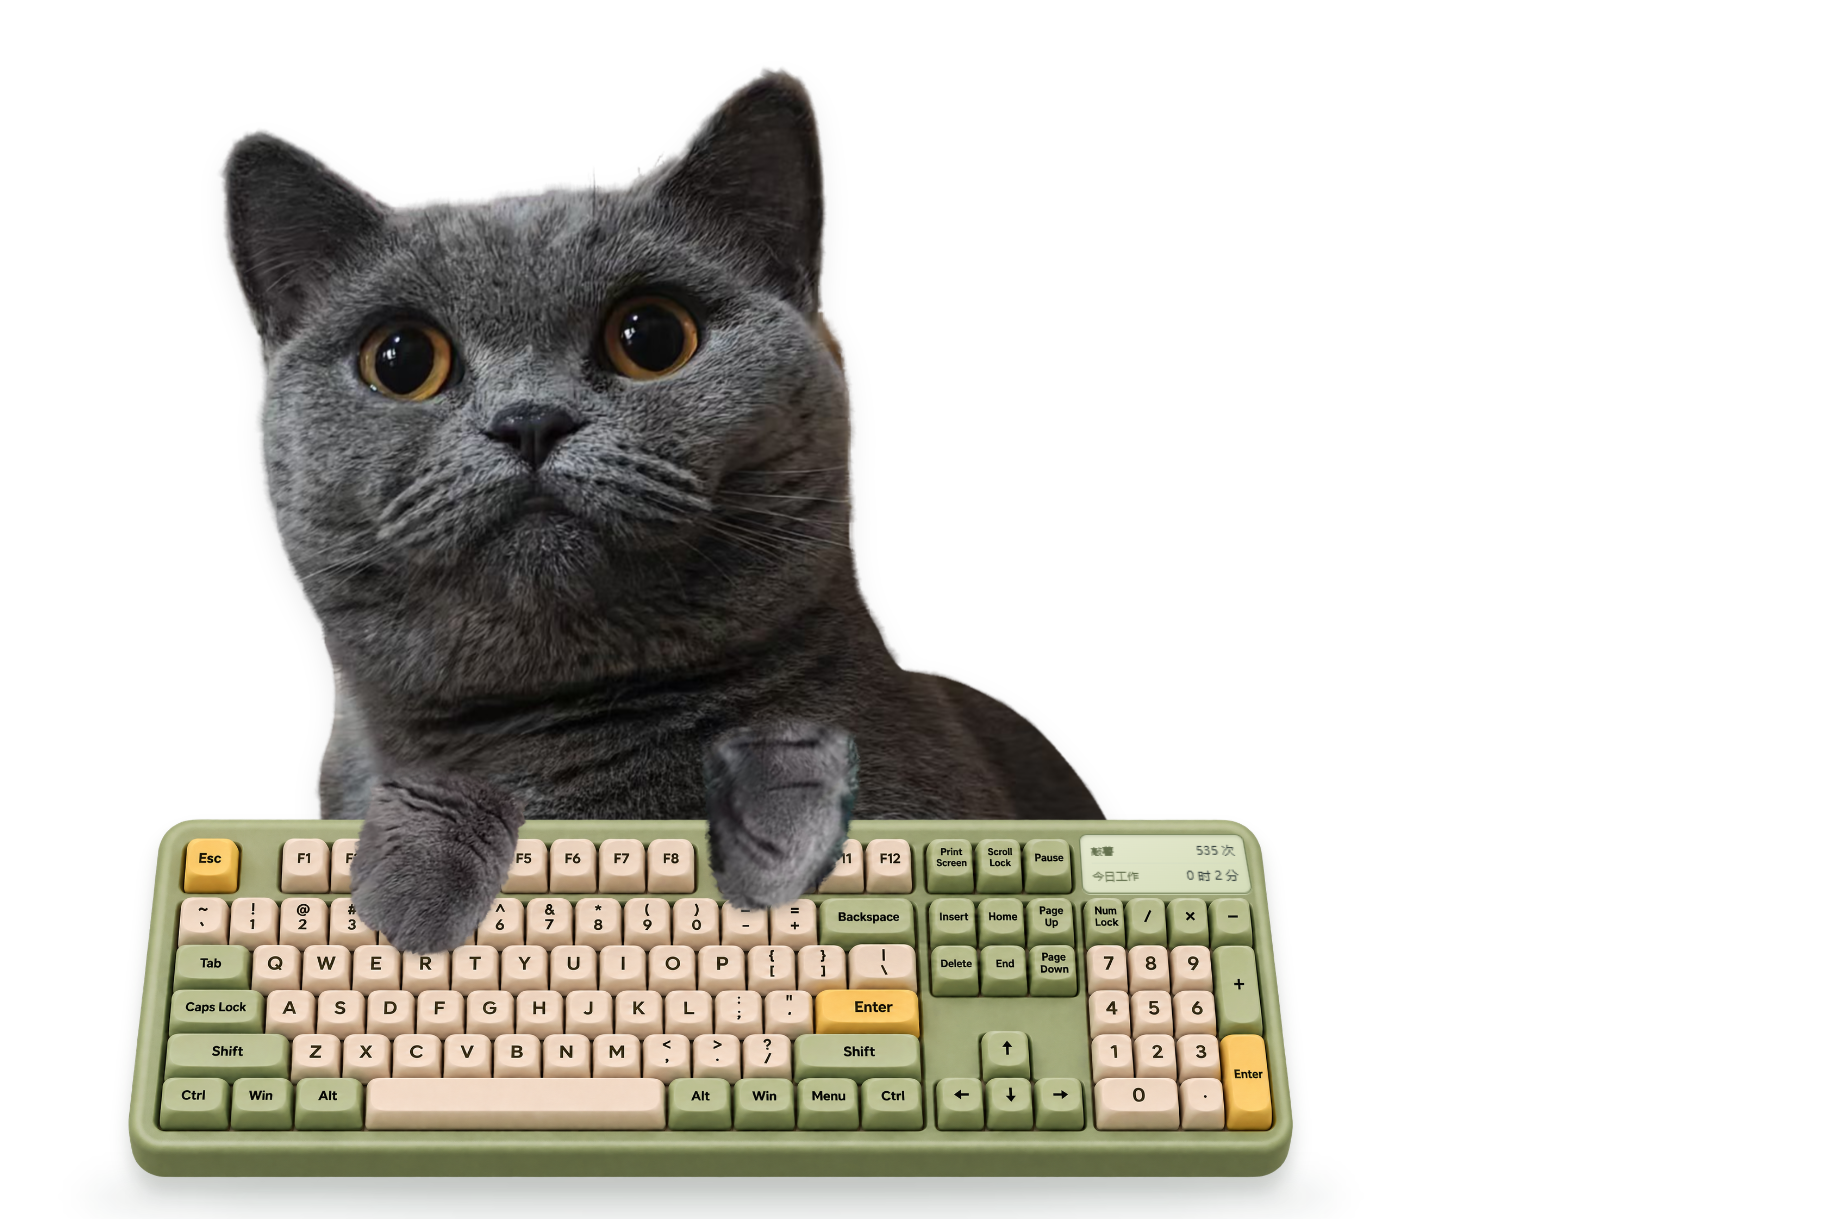
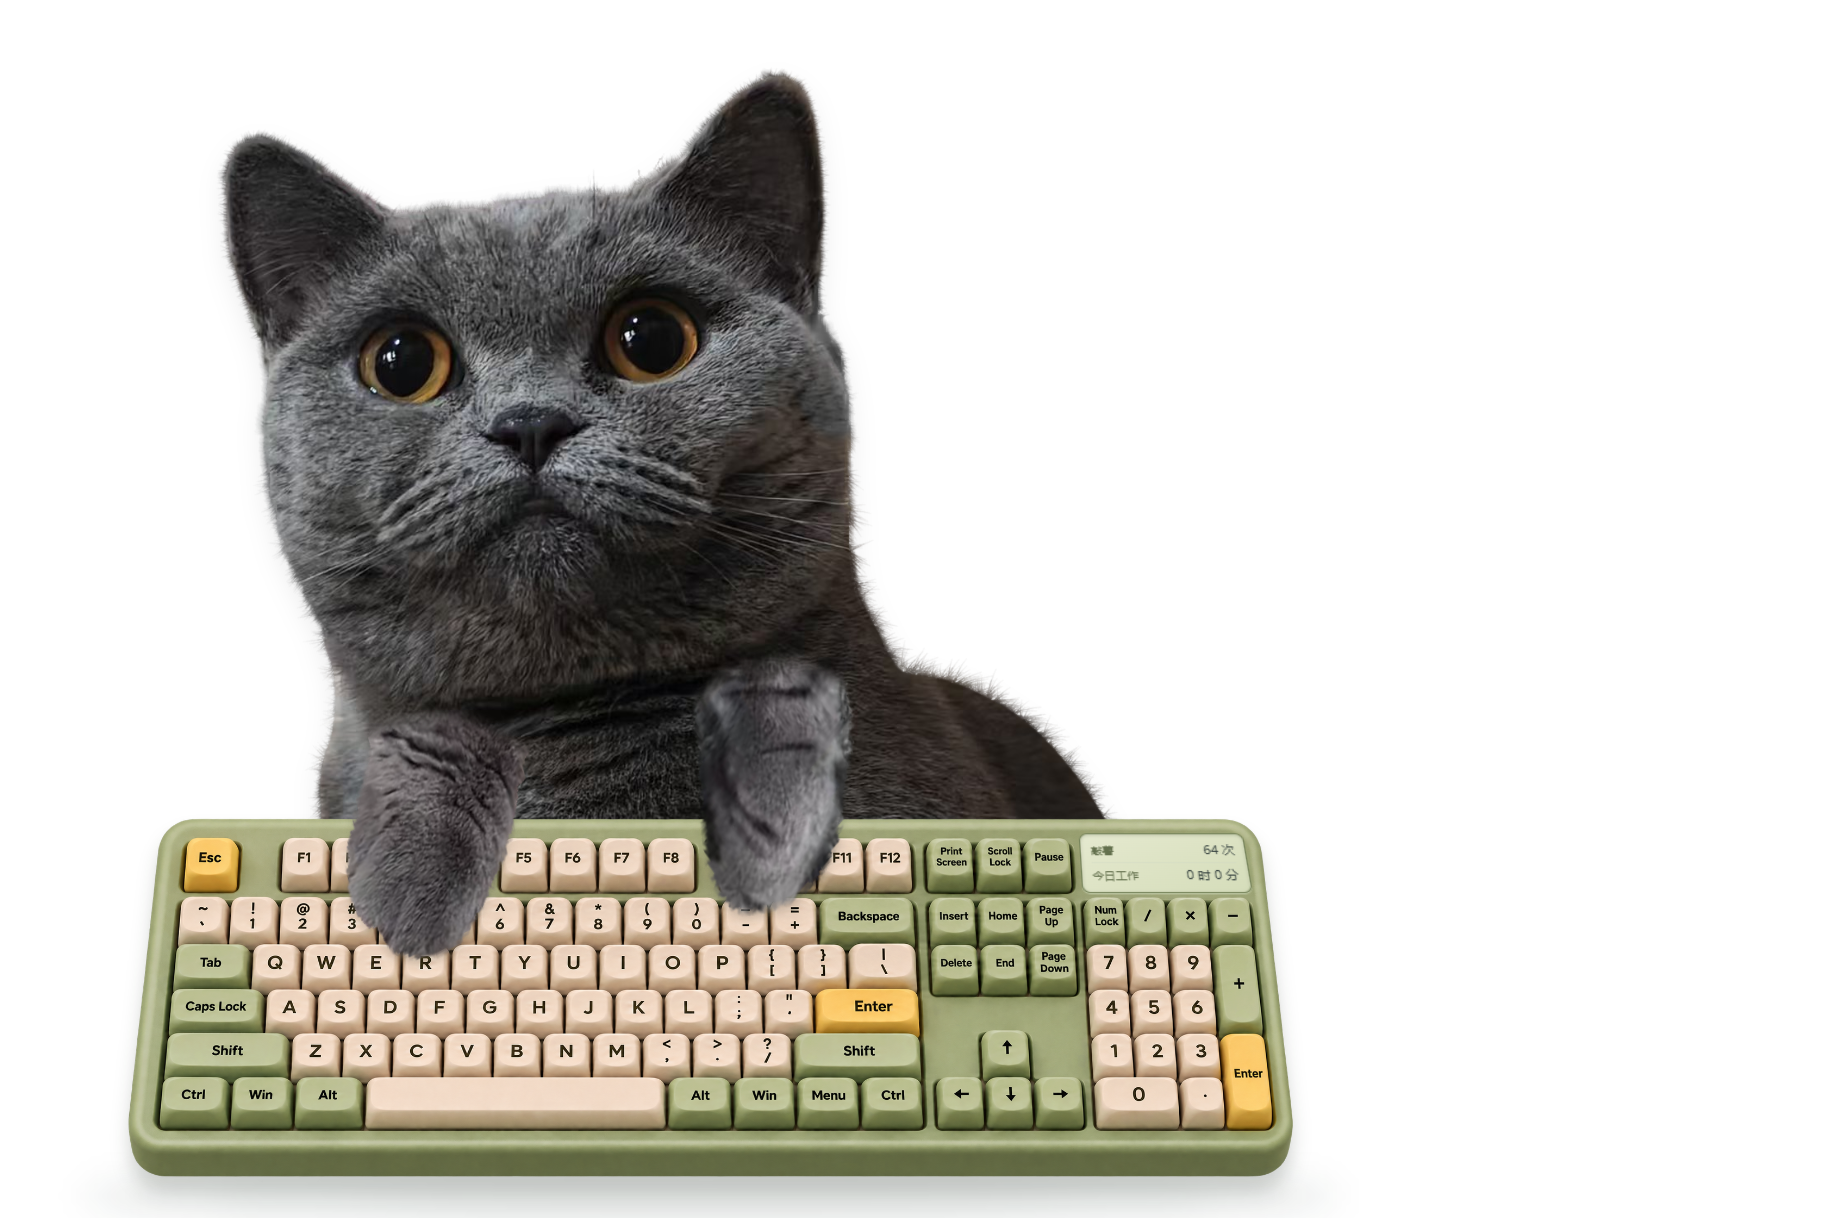
优化猫咪爪子与绒毛边缘，移除托盘调试入口

diff --git a/src/main/index.ts b/src/main/index.ts
@@ -67,7 +67,7 @@ let storePath = "",
 let speechTimer: ReturnType<typeof setTimeout> | undefined;
 let tray: Tray | undefined;
 let rendererCrashes: number[] = [];
-// Tray debug walks the looks in order so every one can be checked by hand.
+// Smoke-only preview support; no debug controls appear in the tray.
 const debugNext = { fun: 0, rest: 0 };
 function debugPanel(mode: "fun" | "rest") {
   const index = debugNext[mode];
@@ -75,7 +75,6 @@ function debugPanel(mode: "fun" | "rest") {
   if (mode === "rest") engine.remind(Date.now(), index);
   else engine.showPanel("fun", Date.now(), index);
   publish();
-  refreshTrayMenu();
 }
 function refreshTrayMenu() {
   tray?.setContextMenu(
@@ -86,30 +85,6 @@ function refreshTrayMenu() {
         type: "checkbox",
         checked: settings.autoStart,
         click: () => update({ autoStart: !settings.autoStart }),
-      },
-      {
-        id: "debug",
-        label: "调试",
-        submenu: [
-          {
-            id: "debug-panel",
-            label: `面板特效（下一个 ${debugNext.fun + 1}/${PANEL_EFFECT_COUNT}）`,
-            click: () => debugPanel("fun"),
-          },
-          {
-            id: "debug-rest",
-            label: `工作满 1 小时（休息特效 ${debugNext.rest + 1}/${PANEL_EFFECT_COUNT}）`,
-            click: () => debugPanel("rest"),
-          },
-          {
-            id: "debug-panel-off",
-            label: "面板恢复正常",
-            click: () => {
-              engine.panel = null;
-              publish();
-            },
-          },
-        ],
       },
       { type: "separator" },
       { id: "quit", label: "退出", click: () => app.quit() },
@@ -351,6 +326,12 @@ function interact(action: string) {
     publish();
     if (acknowledged && settings.visible) send("meow");
     return;
+  } else if (
+    process.argv.includes("--smoke") &&
+    ["debug-panel", "debug-rest", "debug-panel-off"].includes(action)
+  ) {
+    if (action === "debug-panel-off") engine.panel = null;
+    else debugPanel(action === "debug-rest" ? "rest" : "fun");
   } else if (action === "debug-hour" && process.argv.includes("--smoke"))
     // Test-only shortcut for the hourly reminder; no longer in the tray.
     engine.remind(Date.now());

diff --git a/src/renderer/style.css b/src/renderer/style.css
@@ -54,9 +54,11 @@ body {
 }
 .paw {
   position: absolute;
-  width: 174px;
-  height: 184px;
-  object-fit: contain;
+  /* Keep each cutout's previous visible width, with a longer forearm.
+     The bottom anchor in pawStyle keeps the toes on the same key. */
+  width: 156.62px;
+  height: 244px;
+  object-fit: fill;
   transform-origin: 50% 100%;
   pointer-events: none;
   transition:
@@ -71,6 +73,7 @@ body {
   filter: brightness(0.84) saturate(0.86) drop-shadow(0 5px 3px #1b25182b);
 }
 .paw.right {
+  width: 143.75px;
   animation-duration: 6.6s;
   animation-delay: -2.1s;
 }

diff --git a/scripts/soften-body-fur.py b/scripts/soften-body-fur.py
@@ -1,0 +1,224 @@
+"""Add short, tapered side hairs beneath the original cat cutout (no AI).
+
+Use the recorded original asset so repeated runs do not accumulate hairs.
+Retouch ear color, add side fur, and gently feather the silhouette perimeter.
+"""
+from pathlib import Path
+import io
+import json
+import subprocess
+import cv2
+import numpy as np
+from PIL import Image, ImageDraw, ImageFilter
+
+ROOT = Path(__file__).resolve().parents[1]
+raw = subprocess.check_output(
+    ['git', 'show', '0fb7215:src/renderer/assets/cat.png'], cwd=ROOT)
+base = Image.open(io.BytesIO(raw)).convert('RGBA')
+
+# Restore the original photographed crown without remapping its texture.
+crown_before = base.copy()
+width, height = base.size
+
+# Neutralize the warm background spill beside the screen-right ear before
+# sampling coat colors for the fringe. Keep luminance, texture and alpha.
+coat = np.array(base)
+rgb = coat[:, :, :3].astype(float)
+yy, xx = np.ogrid[:base.height, :base.width]
+region = np.clip((1 - ((xx-753)/62)**2 - ((yy-348)/108)**2)*4, 0, 1)
+warm = np.clip((rgb[:, :, 0] - rgb[:, :, 2] - 3)/9, 0, 1)
+weight = region * warm * (coat[:, :, 3] > 0)
+luma = rgb @ np.array([.2126, .7152, .0722])
+neutral = np.stack([luma, luma, luma], axis=2)
+coat[:, :, :3] = np.rint(rgb*(1-weight[:, :, None]) +
+                        neutral*weight[:, :, None]).astype(np.uint8)
+base = Image.fromarray(coat)
+data = np.array(base)
+alpha = data[:, :, 3]
+field = cv2.GaussianBlur(alpha.astype(float), (0, 0), 3)
+gy, gx = np.gradient(field)
+shoulder_field = cv2.GaussianBlur(alpha.astype(float), (0, 0), 11)
+shoulder_gy, shoulder_gx = np.gradient(shoulder_field)
+contours, _ = cv2.findContours((alpha > 127).astype(np.uint8),
+                              cv2.RETR_EXTERNAL, cv2.CHAIN_APPROX_NONE)
+rng = np.random.default_rng(11010)
+scale = 3
+layer = Image.new('RGBA', (base.width * scale, base.height * scale))
+draw = ImageDraw.Draw(layer)
+count = 0
+for x, y in max(contours, key=cv2.contourArea)[:, 0]:
+    if y >= base.height - 65:
+        continue
+    if not ((x < 210 and y > 490) or (x > 710 and y > 330)):
+        continue
+    if rng.random() < .06:
+        continue
+    normal = -np.array([gx[y, x], gy[y, x]])
+    norm = np.linalg.norm(normal)
+    if norm < 1:
+        continue
+    normal /= norm
+    shoulder = float(np.exp(-((x-890)/190)**2 - ((y-765)/135)**2)) if x > 710 else 0
+    # Average the direction across the neck-to-back bend for a continuous flow.
+    smooth_normal = -np.array([shoulder_gx[y, x], shoulder_gy[y, x]])
+    smooth_normal /= max(np.linalg.norm(smooth_normal), 1e-6)
+    normal = normal * (1-shoulder*.75) + smooth_normal * shoulder*.75
+    normal /= np.linalg.norm(normal)
+    tangent = np.array([-normal[1], normal[0]])
+    sample = np.rint(np.array([x, y]) - normal * 7).astype(int)
+    sx, sy = sample
+    color = np.median(data[sy-2:sy+3, sx-2:sx+3, :3].reshape(-1, 3), axis=0)
+    color = np.clip(color * rng.uniform(.96, 1.20), 0, 255).astype(int)
+    direction = normal + tangent * rng.uniform(-.8, .8) + np.array([0, .48])
+    direction /= np.linalg.norm(direction)
+    # Visible at desktop scale: dense short coat plus scattered longer tufts.
+    tuft = .8 + .3 * np.sin(y * .13 + x * .09)
+    length = rng.uniform(12, 25) * tuft * (1.35 if rng.random() < .12 else 1)
+    left_side = x < 210
+    length *= .78 if left_side else .95
+    length *= 1 + shoulder * .48
+    cheek = float(np.exp(-((x-753)/65)**2 - ((y-395)/110)**2)) if x > 710 else 0
+    length *= 1 - cheek * .52
+    root = np.array([x, y]) - normal * 2
+    opacity = int(rng.uniform(205, 255))
+    opacity = round(opacity * (.80 if left_side else .92))
+    opacity = min(255, round(opacity * (1 + shoulder * .12)))
+    opacity = round(opacity * (1 - cheek * .28))
+    # Layer each hair under the photo, with a fine translucent tapered tip.
+    for strand in range(2 if shoulder > .25 else 1):
+        for step in range(8):
+            t0, t1 = step / 8, (step + 1) / 8
+            def point(t):
+                offset = tangent * strand * 1.6
+                p = root + offset + direction * length * t * (1-strand*.24)
+                p += tangent * (t*t) * (2 + shoulder*3 + strand*2)
+                return tuple(p * scale)
+            draw.line([point(t0), point(t1)],
+                      fill=(*map(int, color), int(opacity * (1 - t0) ** .65)),
+                      width=max(1, round(scale * 1.25 * (1 - t0))))
+    count += 1
+# A separate deterministic pass keeps the approved body fur unchanged.
+ear_rng = np.random.default_rng(11011)
+ear_count = 0
+for x, y in max(contours, key=cv2.contourArea)[::2, 0]:
+    if not ((x < 200 and y < 335) or (x > 535 and y < 305)):
+        continue
+    normal = -np.array([gx[y, x], gy[y, x]])
+    norm = np.linalg.norm(normal)
+    if norm < 1:
+        continue
+    normal /= norm
+    tangent = np.array([-normal[1], normal[0]])
+    sx, sy = np.rint(np.array([x, y])-normal*6).astype(int)
+    sx, sy = np.clip(sx, 2, width-3), np.clip(sy, 2, height-3)
+    color = np.median(data[sy-2:sy+3, sx-2:sx+3, :3].reshape(-1, 3), axis=0)
+    color = np.clip(color*ear_rng.uniform(.98, 1.13), 0, 255).astype(int)
+    direction = normal + tangent*ear_rng.uniform(-.55, .55)
+    direction /= np.linalg.norm(direction)
+    length = ear_rng.uniform(6, 12)
+    root = np.array([x, y])-normal*1.8
+    for step in range(8):
+        t0, t1 = step/8, (step+1)/8
+        def ear_point(t):
+            return tuple((root + direction*length*t + tangent*t*t*.8)*scale)
+        draw.line([ear_point(t0), ear_point(t1)],
+                  fill=(*map(int, color), int(215*(1-t0)**.7)),
+                  width=max(1, round(scale*.95*(1-t0))))
+    ear_count += 1
+crown_rng = np.random.default_rng(11012)
+crown_count = 0
+for x, y in max(contours, key=cv2.contourArea)[::2, 0]:
+    if not (215 < x < 525 and 110 < y < 205):
+        continue
+    normal = -np.array([gx[y, x], gy[y, x]])
+    norm = np.linalg.norm(normal)
+    if norm < 1:
+        continue
+    normal /= norm
+    if normal[1] > -.3:
+        continue
+    tangent = np.array([-normal[1], normal[0]])
+    sx, sy = np.rint(np.array([x, y])-normal*8).astype(int)
+    color = np.median(data[sy-2:sy+3, sx-2:sx+3, :3].reshape(-1, 3), axis=0)
+    color = np.clip(color*crown_rng.uniform(.95, 1.08), 0, 255).astype(int)
+    direction = normal + tangent*crown_rng.uniform(-.6, .6)
+    direction /= np.linalg.norm(direction)
+    length = crown_rng.uniform(5, 12)
+    root = np.array([x, y])-normal*2
+    for step in range(8):
+        t0, t1 = step/8, (step+1)/8
+        def crown_point(t):
+            return tuple((root + direction*length*t + tangent*t*t)*scale)
+        draw.line([crown_point(t0), crown_point(t1)],
+                  fill=(*map(int, color), int(205*(1-t0)**.7)),
+                  width=max(1, round(scale*.9*(1-t0))))
+    crown_count += 1
+layer = layer.resize(base.size, Image.Resampling.LANCZOS)
+layer = layer.filter(ImageFilter.GaussianBlur(.45))
+result = Image.alpha_composite(layer, base)
+opaque = alpha == 255
+output = np.array(result)
+preserve_head = (yy < 330) & ~(((xx < 215) & (yy < 350)) |
+                                      ((xx > 520) & (yy < 320)) |
+                                      ((xx > 205) & (xx < 535) & (yy > 95) & (yy < 215)))
+output[preserve_head] = data[preserve_head]
+output[opaque] = data[opaque]
+result = Image.fromarray(output)
+assert np.array_equal(np.array(result)[opaque], data[opaque])
+assert np.array_equal(np.array(result)[preserve_head], data[preserve_head])
+# Feather inward only: no colored halo from transparent RGB outside the image.
+# The small subpixel transition softens the head, ears and body consistently.
+edge_alpha = output[:, :, 3].astype(float)
+soft_alpha = np.array(result.getchannel('A').filter(ImageFilter.GaussianBlur(.65)))
+shoulder_weight = np.exp(-((xx-890)/190)**2 - ((yy-765)/135)**2)
+rounder_alpha = np.array(result.getchannel('A').filter(ImageFilter.GaussianBlur(.95)))
+soft_alpha = soft_alpha*(1-shoulder_weight) + rounder_alpha*shoulder_weight
+cheek_weight = np.exp(-((xx-753)/65)**2 - ((yy-395)/110)**2)
+cheek_alpha = np.array(result.getchannel('A').filter(ImageFilter.GaussianBlur(1.15)))
+soft_alpha = soft_alpha*(1-cheek_weight) + cheek_alpha*cheek_weight
+output[:, :, 3] = np.rint(edge_alpha * .35 +
+                          np.minimum(edge_alpha, soft_alpha) * .65).astype(np.uint8)
+interior = np.array(base.getchannel('A').filter(ImageFilter.MinFilter(7))) == 255
+output[interior] = data[interior]
+assert np.array_equal(output[interior], data[interior])
+result = Image.fromarray(output)
+result.save(ROOT / 'src/renderer/assets/cat.png')
+meta_path = ROOT / 'docs/cat-source-region.json'
+meta = json.loads(meta_path.read_text(encoding='utf-8'))
+meta['ear_color_repair'] = 'localized neutral gray correction beside right ear; luminance and alpha preserved'
+meta['crown_repair'] = {'method': 'original photographed contour and texture with short tapered fur tips',
+                        'hair_count': crown_count, 'length_px': [5, 12]}
+meta['ear_fur'] = {'method': 'short soft tapered hairs from nearby coat colors',
+                   'hair_count': ear_count, 'length_px': [6, 12]}
+meta['body_fur'] = {
+    'method': 'sampled coat colors, tapered short hairs beneath original alpha',
+    'script': 'scripts/soften-body-fur.py',
+    'base_commit': '0fb7215',
+    'hair_count': count,
+    'interior_pixels_unchanged': True,
+    'left_fur_length_scale': .78,
+    'left_fur_opacity_scale': .80,
+    'edge_feather_sigma': .65,
+    'shoulder_fur': 'local extra strands, longer tips, smoothed flow and 0.95px feather',
+    'right_ear_cheek': 'shorter softer fur tips and local 1.15px feather',
+}
+meta_path.write_text(json.dumps(meta, indent=2) + '\n', encoding='utf-8')
+review = ROOT / 'docs/edge-review'
+comparison = Image.new('RGB', (840, 640), '#202626')
+for row, image in enumerate([crown_before, result]):
+    bg = Image.new('RGBA', image.size, '#202626')
+    bg.alpha_composite(image)
+    patch = bg.crop((165, 90, 585, 170+80)).resize((840, 320))
+    comparison.paste(patch, (0, row*320))
+comparison.save(review / 'natural-crown-fur-comparison.png')
+for name, box in [('left-body', (65, 570, 225, 990)),
+                  ('right-neck-body', (700, 350, 1170, 1000))]:
+    w, h = box[2]-box[0], box[3]-box[1]
+    canvas = Image.new('RGB', (w*2, h*2))
+    for row, bg_color in enumerate(['#151919', '#eeeee5']):
+        for col, image in enumerate([base, result]):
+            bg = Image.new('RGBA', base.size, bg_color)
+            bg.alpha_composite(image)
+            canvas.paste(bg.crop(box).convert('RGB'), (col*w, row*h))
+    canvas.save(review / f'{name}-soft-fur-comparison.png')
+print(f'Added {count} tapered side hairs; left side reduced; perimeter feathered; interior verified')

diff --git a/README.md b/README.md
@@ -6,7 +6,7 @@ Windows 桌面上的写实小猫，陪你敲键盘，也记得提醒你休息。
 
 完整解压 `release/懵薯-1.0.10-Windows-x64.zip` 到固定文件夹，双击其中的 `懵薯.exe` 即可运行，无需安装 Node.js、Python 或其他运行环境。保留同目录的配套文件，不要只复制一个 exe。开机自启使用解压后的程序位置。
 
-应用在右下角通知区域显示懵薯托盘图标，右键打开菜单，提供“开机自启”开关、“调试”子菜单和“退出”。“调试”里可以按顺序预览面板造型（“面板特效”）、模拟工作满 1 小时（同时弹出休息提醒和休息造型），以及让面板恢复正常。休息提醒可点击“我知道了”关闭，或在 30 分钟后自动消失。再次运行程序会重新连接桌面，不会打开独立设置窗口。
+应用在右下角通知区域显示懵薯托盘图标，右键打开菜单，提供“开机自启”开关和“退出”。工作满 1 小时会弹出休息提醒和休息造型。休息提醒可点击“我知道了”关闭，或在 30 分钟后自动消失。再次运行程序会重新连接桌面，不会打开独立设置窗口。
 
 猫、键盘、面板和气泡都在桌面图标下面，普通窗口会遮住它们。默认整体场景在主屏工作区水平、垂直居中，占工作区面积约 5/8。小屏幕保持比例优先，面积可能受屏幕边界限制。
 
